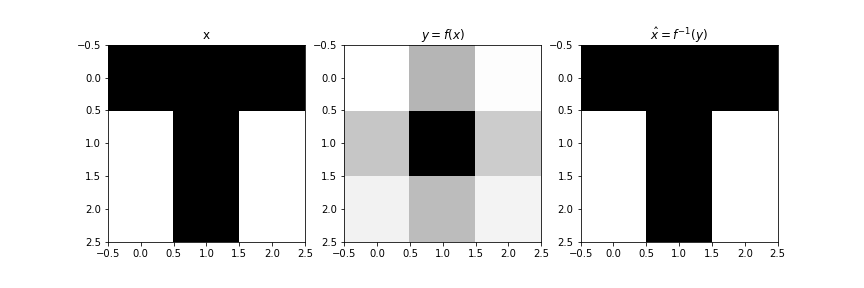
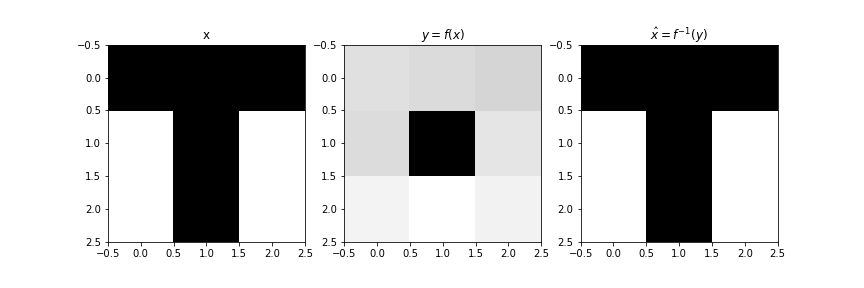
fix dimension bugs on Conv1d and Conv2d

Changed region(s): [[0.375, 0.1562, 0.625, 0.8438]]

diff --git a/src/utilities.py b/src/utilities.py
@@ -106,7 +106,22 @@ class NormalDistribution(nn.Module):
         super(NormalDistribution, self).__init__()
     
     def logp(self, x):
-        return torch.sum(-1 * (x ** 2), dim=-1)
+        logps = -1 * (x ** 2)
+
+        if len(x.shape) == 1:
+            # linear layer
+            raise Exception(f'The input must have a batch dimension, but got dim={x.shape}.')
+        if len(x.shape) == 2:
+            # [batch, dim]
+            return logps.sum(dim=-1)
+        if len(x.shape) == 3:
+            # [batch, channel, dim_1d], 1d conv
+            return logps.reshape(x.shape[0], -1).sum(dim=-1)
+        if len(x.shape) == 4:
+            # [batch, channel, dim_x, dim_y], 2d conv
+            return logps.reshape(x.shape[0], -1).sum(dim=-1)
+        
+        raise Exception(f'The input dimension should be 1,2,3, or 4, but got {len(x.shape)}.')
     
     def sample(self, shape):
         return torch.randn(shape)

diff --git a/src/iResNetAbstract.py b/src/iResNetAbstract.py
@@ -100,6 +100,7 @@ class Conv(iResNetModule):
         return x, 0
     
     def logdet(self, x, g):
+        batch = x.shape[0]
         self.eval()
         logdet = 0
         for i in range(self.num_iter):
@@ -108,8 +109,9 @@ class Conv(iResNetModule):
             w = v
             for k in range(1, self.num_n):
                 w = vjp(g, x, w)[0]
-                logdet += (-1)**(k+1) * torch.sum(w * v, dim=-1) / k
+                logdet += (-1)**(k+1) * (w * v) / k # groug at the batch level
         
+        logdet = logdet.reshape(batch, -1).sum(-1)
         logdet /= self.num_iter
         self.train()
         return logdet
